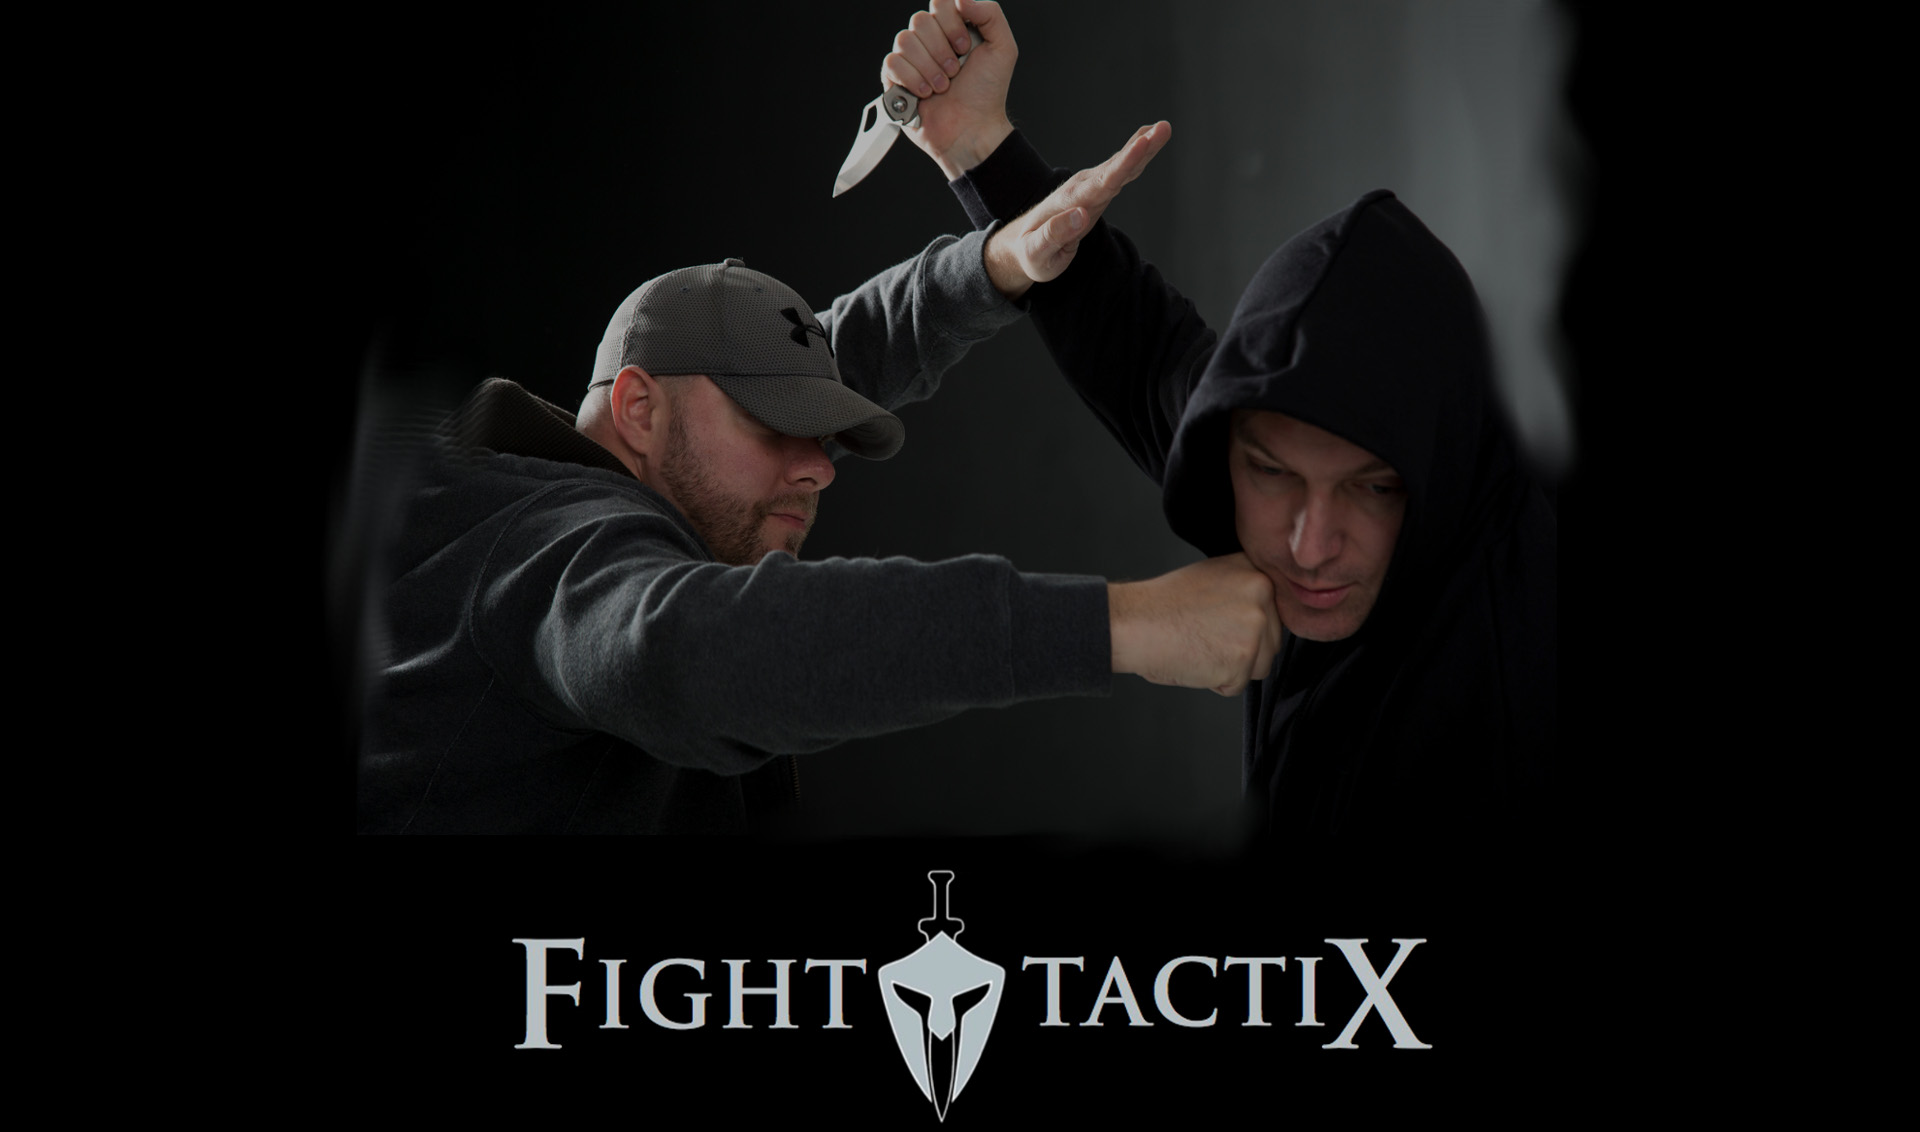
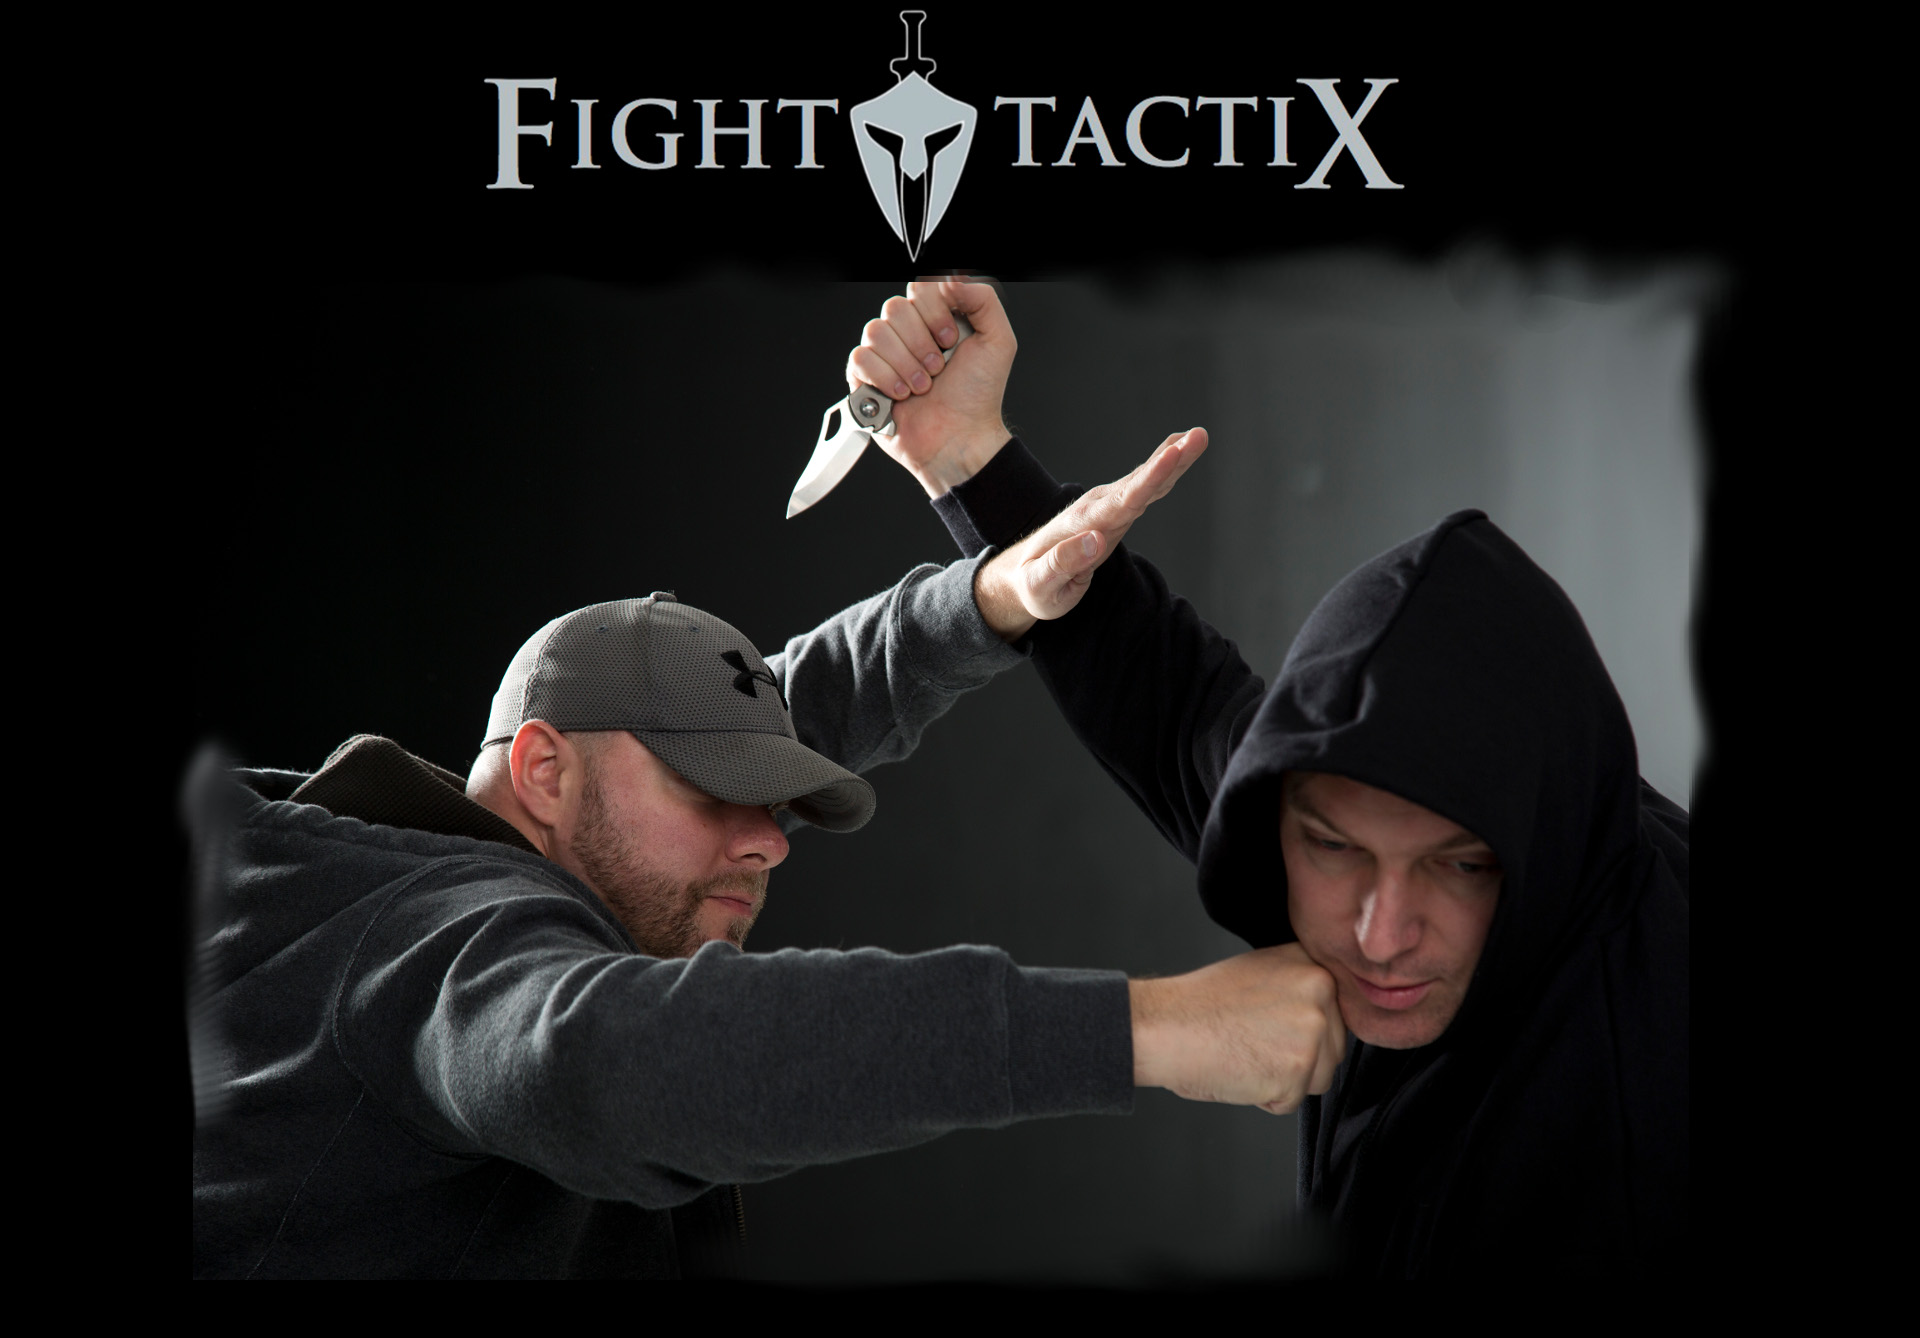
next

diff --git a/index.html b/index.html
@@ -54,22 +54,15 @@
   <div class="page">
 
     <header id="section-header" class="header moto-section" data-widget="section" data-container="section">
-      <div data-css-name="moto-container_header_5625f0e6" class="moto-widget moto-widget-container moto-container_header_5625f0e6" data-widget="container" data-container="container" style="height:1132px;">
+      <div data-css-name="moto-container_header_5625f0e6" class="moto-widget moto-widget-container moto-container_header_5625f0e6" data-widget="container" data-container="container" style="height:1338px;">
         <div class="moto-widget moto-widget-row row-fixed" data-widget="row">
           <div class="container-fluid">
             <div class="row">
               <div class="moto-cell col-sm-12" data-container="container">
                 <div class="moto-widget moto-widget-spacer moto-preset-default                 moto-spacing-top-large moto-spacing-right-auto moto-spacing-bottom-large moto-spacing-left-auto" data-widget="spacer" data-preset="default" data-spacing="lala">
-                <!--   <div class="moto-widget-spacer-block" style="height: 20px;"></div> -->
+                  <div class="moto-widget-spacer-block" style="height: 200px;"></div>
                 </div>
-                <div data-animation="fadeInDown" class="moto-widget moto-widget-text moto-preset-default                     moto-spacing-top-small moto-spacing-right-auto moto-spacing-bottom-small moto-spacing-left-auto wow fadeInDown" data-widget="text"
-                data-preset="default" data-spacing="sasa" style="visibility: visible; animation-name: fadeInDown;">
-                  <div class="moto-widget-text-content moto-widget-text-editable">
-                    <p style="text-align: center;" class="moto-text_system_1"><a class="moto-link" data-action="pages" data-id="1" href="/">Israeli Krav Maga</a>
-                      <br>
-                    </p>
-                  </div>
-                </div>
+            
 <!--                 <div data-animation="fadeInDown" class="moto-widget moto-widget-text moto-preset-default                  moto-spacing-top-auto moto-spacing-right-auto moto-spacing-bottom-medium moto-spacing-left-auto wow fadeInDown" data-widget="text"
                 data-preset="default" data-spacing="aama" style="visibility: visible; animation-name: fadeInDown;">
                   <div class="moto-widget-text-content moto-widget-text-editable">
@@ -78,7 +71,7 @@
                     </p>
                   </div>
                 </div> -->
-                <div class="moto-widget moto-widget-image moto-preset-default moto-align-center moto-spacing-top-auto moto-spacing-right-auto moto-spacing-bottom-auto moto-spacing-left-auto wow fadeInUp" data-preset="default" data-spacing="aaaa" data-widget="image"
+        <!--         <div class="moto-widget moto-widget-image moto-preset-default moto-align-center moto-spacing-top-auto moto-spacing-right-auto moto-spacing-bottom-auto moto-spacing-left-auto wow fadeInUp" data-preset="default" data-spacing="aaaa" data-widget="image"
                 style="visibility: visible; animation-name: fadeInUp;">
 
 
@@ -86,9 +79,10 @@
                     <img src="assets/image/mt-0179-home-icon1.png" class="moto-widget-image-picture" data-id="85" title="" alt="" draggable="false">
                   </div>
 
-                </div>
+                </div> -->
                 <div class="moto-widget moto-widget-menu moto-preset-2 moto-align-center moto-spacing-top-small moto-spacing-right-auto moto-spacing-bottom-medium moto-spacing-left-auto wow fadeInUp" data-preset="2" data-widget="menu" data-align="{&quot;desktop&quot;:&quot;center&quot;,&quot;tablet&quot;:&quot;&quot;,&quot;mobile-h&quot;:&quot;&quot;,&quot;mobile-v&quot;:&quot;&quot;}"
                 data-menu-id="1" data-menu-type="horizontal" data-spacing="sama" data-animation="fadeInUp" style="visibility: visible; animation-name: fadeInUp;">
+
                   <a href="#" class="moto-widget-menu-toggle-btn"><i class="moto-widget-menu-toggle-btn-icon fa fa-bars"></i></a>
                   <ul class="moto-widget-menu-list moto-widget-menu-list_horizontal">
                     <li class="moto-widget-menu-item">
@@ -224,7 +218,16 @@
           </div>
         </div>
       </div> -->
+
       <div data-css-name="moto-container_content_56260706" class="moto-widget moto-widget-container moto-container_content_56260706" data-widget="container" data-container="container">
+          <div data-animation="fadeInDown" class="moto-widget moto-widget-text moto-preset-default                     moto-spacing-top-small moto-spacing-right-auto moto-spacing-bottom-small moto-spacing-left-auto wow fadeInDown" data-widget="text"
+                data-preset="default" data-spacing="sasa" style="visibility: visible; animation-name: fadeInDown;">
+                  <div class="moto-widget-text-content moto-widget-text-editable">
+                    <p style="text-align: center;" class="moto-text_system_1"><a class="moto-link" data-action="pages" data-id="1" href="/">Israeli Krav Maga</a>
+                      <br>
+                    </p>
+                  </div>
+                </div>
         <div class="moto-widget moto-widget-row row-fixed" data-widget="row">
           <div class="container-fluid">
             <div class="row">
